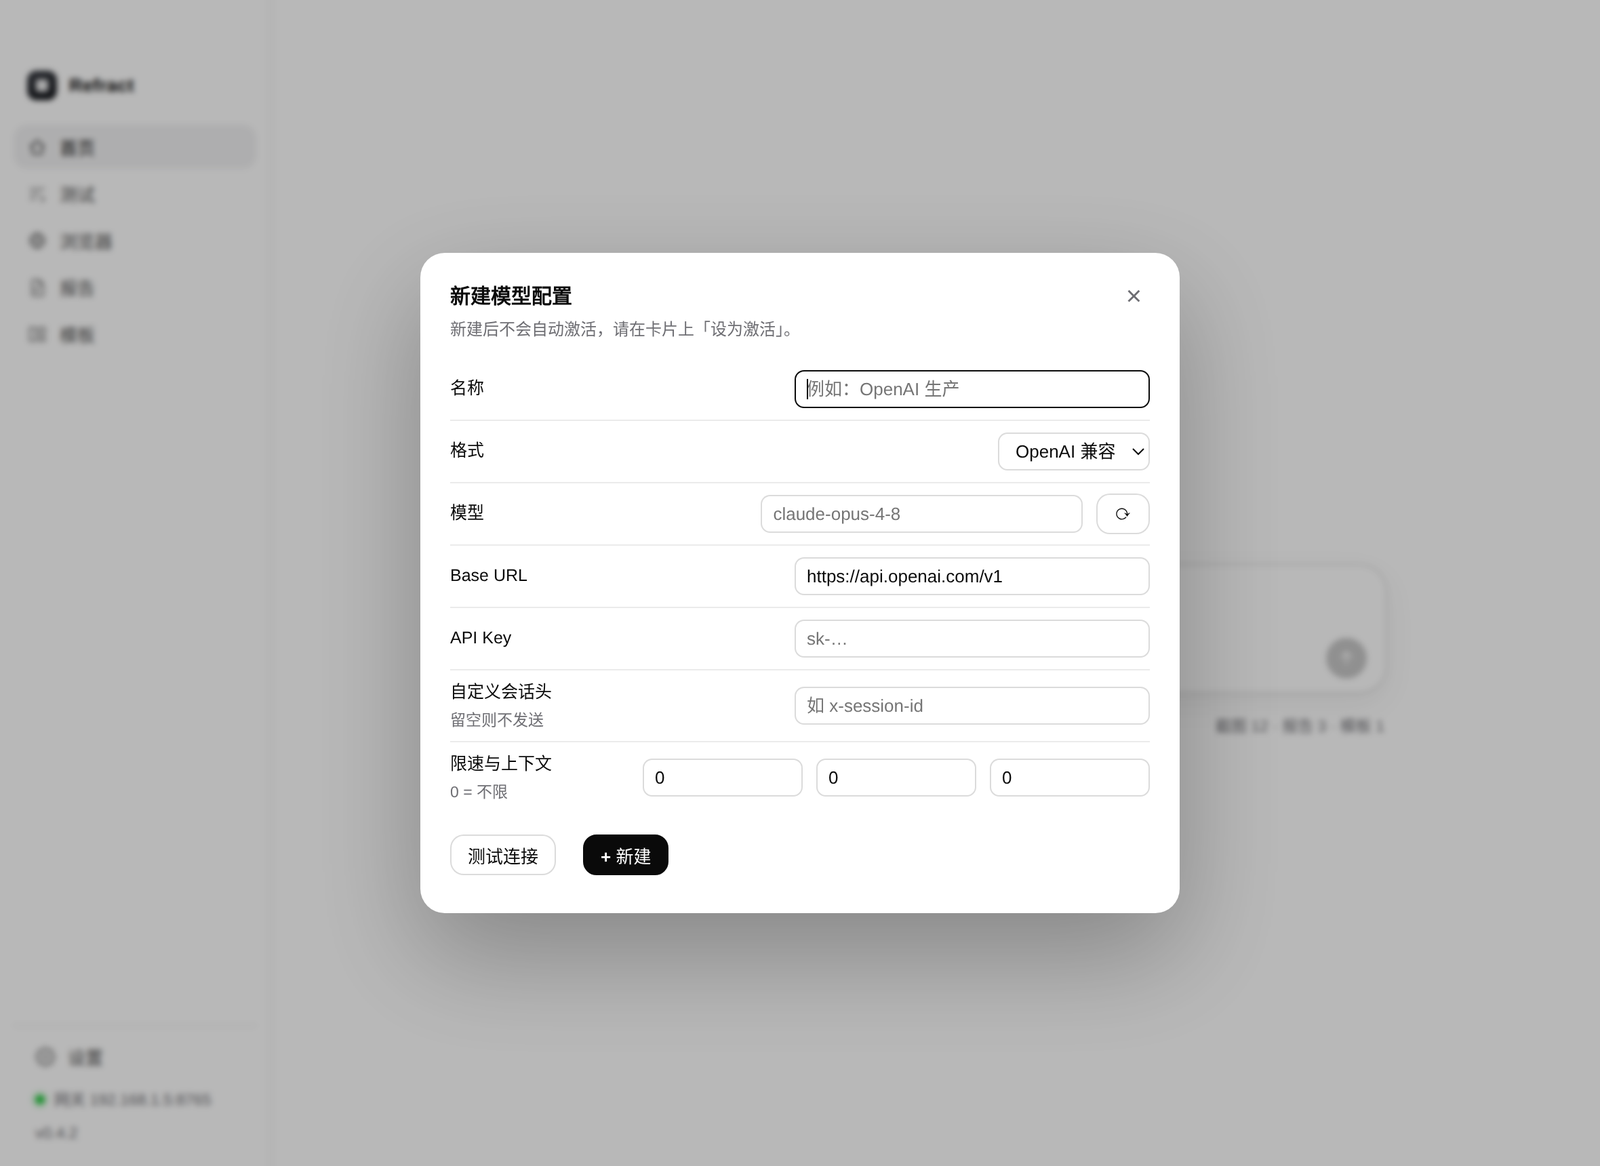
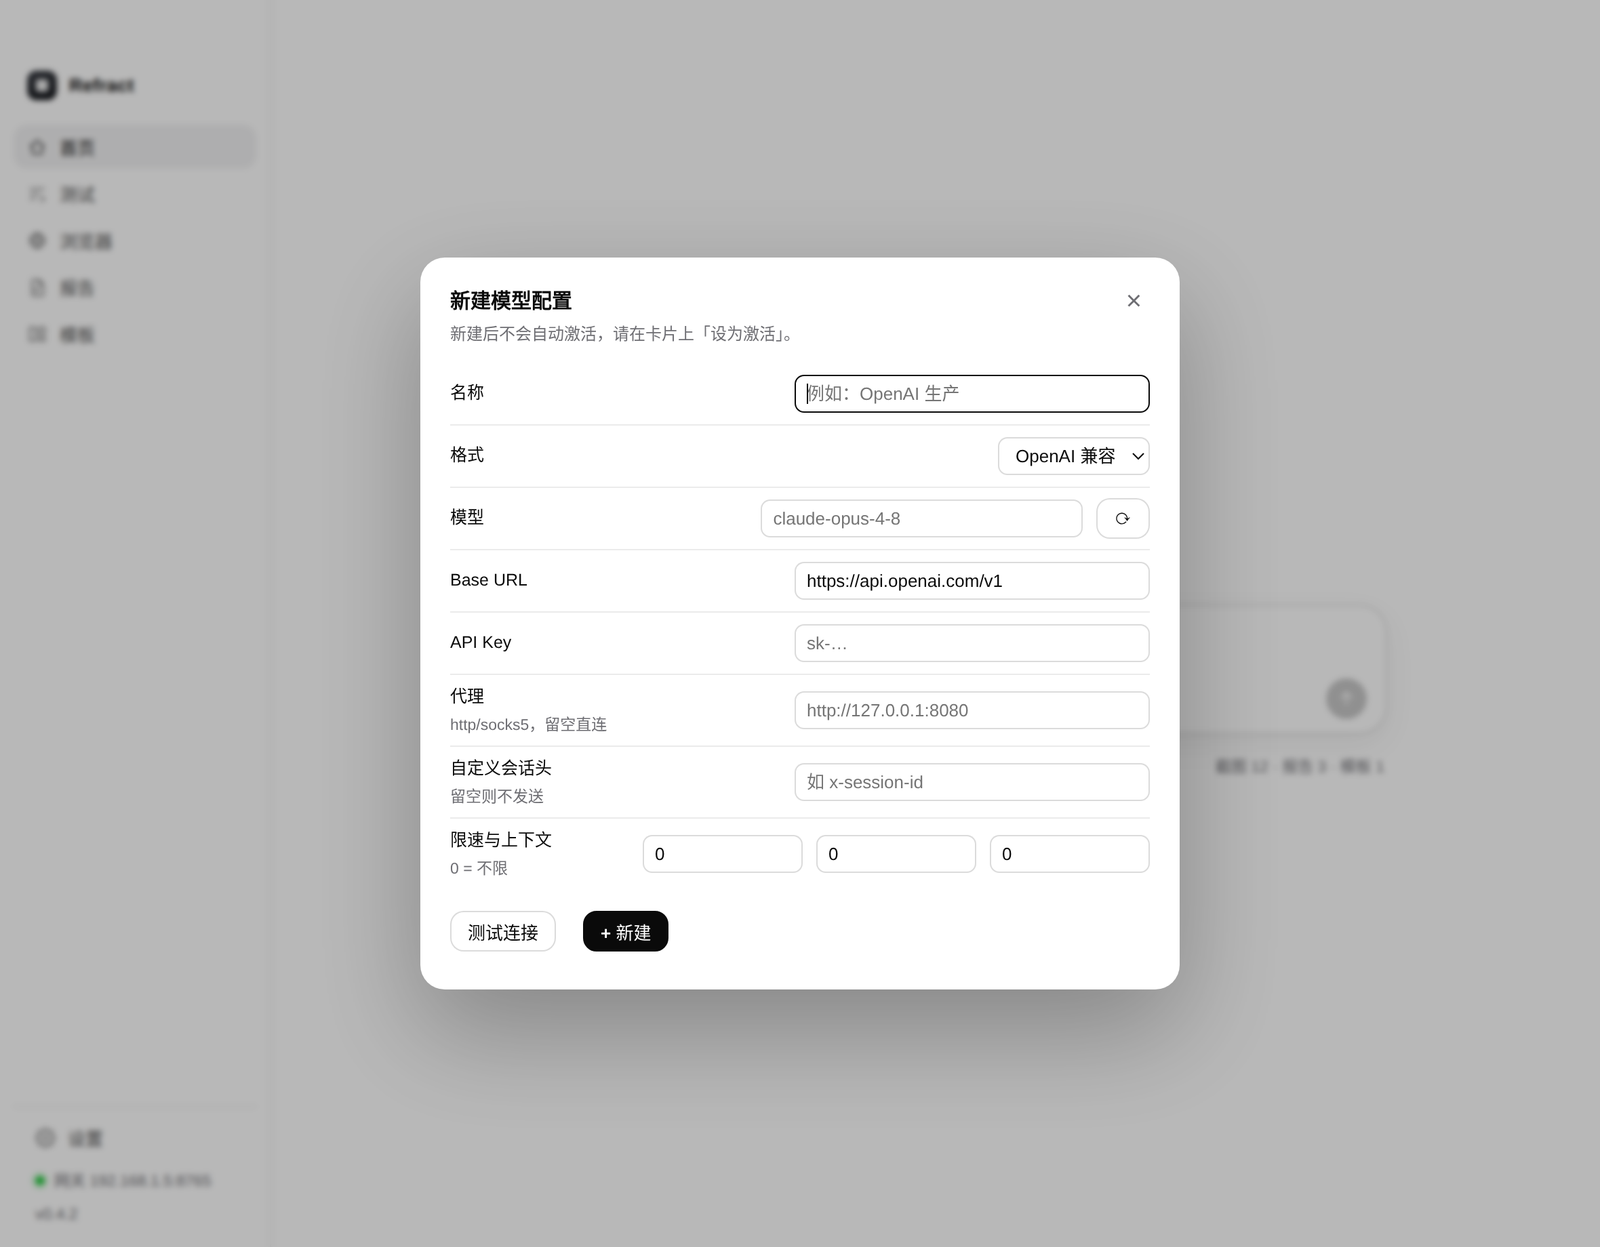
0.5.2：LLM 走代理（http/https CONNECT 与 socks5），补全会话头限速上下文

diff --git a/electron/http.js b/electron/http.js
@@ -44,6 +44,145 @@ async function send(raw, opts = {}) {
   return sendH1(raw, opts);
 }
 
+
+/* ---------------- 代理隧道 ---------------- */
+
+function parseProxy(str) {
+  try {
+    const u = new URL(String(str || '').trim());
+    return {
+      protocol: u.protocol.replace(':', ''),
+      host: u.hostname,
+      port: Number(u.port) || (u.protocol === 'socks5:' || u.protocol === 'socks5h:' ? 1080 : 8080),
+      user: decodeURIComponent(u.username || ''),
+      pass: decodeURIComponent(u.password || '')
+    };
+  } catch (e) {
+    throw new Error('代理地址格式不对：' + str);
+  }
+}
+
+function httpConnect(proxy, host, port) {
+  return new Promise((resolve, reject) => {
+    const sock = net.connect({ host: proxy.host, port: proxy.port });
+    const fail = (e) => { sock.destroy(); reject(e); };
+    sock.setTimeout(15000, () => fail(new Error('代理连接超时')));
+    sock.once('error', fail);
+    sock.once('connect', () => {
+      const auth = proxy.user
+        ? `Proxy-Authorization: Basic ${Buffer.from(`${proxy.user}:${proxy.pass}`).toString('base64')}\r\n`
+        : '';
+      sock.write(`CONNECT ${host}:${port} HTTP/1.1\r\nHost: ${host}:${port}\r\n${auth}\r\n`);
+      let buf = '';
+      const onData = (d) => {
+        buf += d.toString('latin1');
+        const idx = buf.indexOf('\r\n\r\n');
+        if (idx < 0) return;
+        sock.removeListener('data', onData);
+        const line = buf.split('\r\n')[0];
+        const code = Number(line.split(' ')[1]);
+        if (code !== 200) return fail(new Error('代理拒绝隧道：' + line));
+        sock.setTimeout(0);
+        resolve(sock);
+      };
+      sock.on('data', onData);
+    });
+  });
+}
+
+function socksConnect(proxy, host, port) {
+  return new Promise((resolve, reject) => {
+    const sock = net.connect({ host: proxy.host, port: proxy.port });
+    const fail = (e) => { sock.destroy(); reject(e); };
+    sock.setTimeout(15000, () => fail(new Error('SOCKS 代理超时')));
+    sock.once('error', fail);
+
+    let step = 'greet';
+    let buf = Buffer.alloc(0);
+
+    const onData = (d) => {
+      buf = Buffer.concat([buf, d]);
+      try {
+        if (step === 'greet') {
+          if (buf.length < 2) return;
+          if (buf[1] !== 0x00) throw new Error('SOCKS 代理要求认证');
+          buf = buf.slice(2);
+          step = 'auth';
+          if (proxy.user) {
+            const u = Buffer.from(proxy.user);
+            const pw = Buffer.from(proxy.pass);
+            sock.write(Buffer.concat([Buffer.from([0x01, u.length]), u, Buffer.from([pw.length]), pw]));
+          } else {
+            buf = buf;
+            step = 'connect';
+            sendConnect();
+          }
+          if (proxy.user && buf.length) onData(Buffer.alloc(0));
+          return;
+        }
+        if (step === 'auth') {
+          if (buf.length < 2) return;
+          if (buf[1] !== 0x00) throw new Error('SOCKS 认证失败');
+          buf = buf.slice(2);
+          step = 'connect';
+          sendConnect();
+          return;
+        }
+        if (step === 'reply') {
+          if (buf.length < 4) return;
+          if (buf[1] !== 0x00) throw new Error('SOCKS 连接失败：' + buf[1]);
+          sock.removeListener('data', onData);
+          sock.setTimeout(0);
+          resolve(sock);
+        }
+      } catch (e) {
+        fail(e);
+      }
+    };
+
+    function sendConnect() {
+      const hb = Buffer.from(host);
+      const req = Buffer.concat([
+        Buffer.from([0x05, 0x01, 0x00, 0x03, hb.length]),
+        hb,
+        Buffer.from([(port >> 8) & 0xff, port & 0xff])
+      ]);
+      sock.write(req);
+      step = 'reply';
+      if (buf.length) onData(Buffer.alloc(0));
+    }
+
+    sock.once('connect', () => {
+      if (proxy.user) sock.write(Buffer.from([0x05, 0x02, 0x00, 0x02]));
+      else sock.write(Buffer.from([0x05, 0x01, 0x00]));
+      sock.on('data', onData);
+    });
+  });
+}
+
+/** 按需建立到目标的 socket（可经代理）。 */
+function openSocket(target, scheme, proxyStr, servername) {
+  const base = proxyStr
+    ? (() => {
+        const pr = parseProxy(proxyStr);
+        return /^socks/.test(pr.protocol) ? socksConnect(pr, target.host, target.port) : httpConnect(pr, target.host, target.port);
+      })()
+    : Promise.resolve(null);
+
+  return base.then((tunnel) => {
+    if (!tunnel) {
+      return scheme === 'https'
+        ? tls.connect({ host: target.host, port: target.port, servername, rejectUnauthorized: false })
+        : net.connect({ host: target.host, port: target.port });
+    }
+    if (scheme !== 'https') return tunnel;
+    return new Promise((resolve, reject) => {
+      const s = tls.connect({ socket: tunnel, servername }, () => resolve(s));
+      s.once('error', reject);
+    });
+  });
+}
+
 async function sendH1(raw, opts = {}) {
   const timeout = opts.timeout || 30000;
   const req = parseRequest(raw);
@@ -81,28 +220,25 @@ async function sendH1(raw, opts = {}) {
 
   const started = Date.now();
   const res = await new Promise((resolve, reject) => {
-    let socket;
-    const connect = () => {
-      socket = scheme === 'https'
-        ? tls.connect({
-            host: hostname,
-            port,
-            servername: /^[\d.]+$|:/.test(hostname) ? undefined : hostname.replace(/^\[|\]$/g, ''),
-            rejectUnauthorized: false
-          })
-        : net.connect({ host: hostname, port });
-      socket.setTimeout(timeout);
-      socket.once(scheme === 'https' ? 'secureConnect' : 'connect', () => {
-        socket.write(head);
-        if (bodyBuf.length) socket.write(bodyBuf);
-      });
-      const chunks = [];
-      socket.on('data', (c) => chunks.push(c));
-      socket.on('end', () => resolve(Buffer.concat(chunks)));
-      socket.on('timeout', () => { socket.destroy(); reject(new Error('连接超时')); });
-      socket.on('error', reject);
-    };
-    connect();
+    const servername = /^[\d.]+$|:/.test(hostname) ? undefined : hostname.replace(/^\[|\]$/g, '');
+    openSocket({ host: hostname, port }, scheme, opts.proxy, servername)
+      .then((raw) => {
+        const socket = raw;
+        socket.setTimeout(timeout);
+        const ready = scheme === 'https' && !opts.proxy ? 'secureConnect' : 'connect';
+        const start = () => {
+          socket.write(head);
+          if (bodyBuf.length) socket.write(bodyBuf);
+        };
+        if (socket.connecting === false && socket.encrypted) start();
+        else socket.once(ready, start);
+        const chunks = [];
+        socket.on('data', (c) => chunks.push(c));
+        socket.on('end', () => resolve(Buffer.concat(chunks)));
+        socket.on('timeout', () => { socket.destroy(); reject(new Error('连接超时')); });
+        socket.on('error', reject);
+      })
+      .catch(reject);
   });
 
   const out = decodeResponse(res, Date.now() - started);

diff --git a/electron/llm.js b/electron/llm.js
@@ -1,5 +1,6 @@
 'use strict';
 // 极简 LLM 客户端：OpenAI 兼容 + Anthropic 兼容，支持流式。
+const httpc = require('./http');
 const DEFAULT_TIMEOUT = 120000;
 
 function joinURL(base, suffix) {
@@ -64,6 +65,51 @@ function authHeaders(p) {
   };
 }
 
+/**
+ * 走代理时用项目里的 raw HTTP 通道（fetch 不认代理）。
+ * 代价是不能流式，整段回来再一次性丢给 onDelta。
+ */
+async function proxyJSON(provider, url, bodyObj, method = 'POST') {
+  const u = new URL(url);
+  const body = bodyObj ? JSON.stringify(bodyObj) : '';
+  const h = headersFor(provider);
+  const head =
+    `${method} ${u.pathname}${u.search} HTTP/1.1\r\n` +
+    `Host: ${u.host}\r\n` +
+    Object.entries(h).map(([k, v]) => `${k}: ${v}`).join('\r\n') +
+    (body ? `\r\nContent-Length: ${Buffer.byteLength(body)}` : '') +
+    '\r\n\r\n' + body;
+
+  const r = await httpc.send(head, { scheme: 'https', protocol: 'http1.1', proxy: provider.proxy, timeout: DEFAULT_TIMEOUT });
+  const idx = r.text.indexOf('\r\n\r\n');
+  const payload = idx >= 0 ? r.text.slice(idx + 4) : '';
+  if (r.status >= 400) {
+    let msg = payload.slice(0, 200);
+    try { const j = JSON.parse(payload); msg = (j.error && (j.error.message || j.error)) || msg; } catch (e) { /* ignore */ }
+    throw new Error(`HTTP ${r.status}：${msg}`);
+  }
+  try {
+    return JSON.parse(payload);
+  } catch (e) {
+    throw new Error('返回不是 JSON：' + payload.slice(0, 120));
+  }
+}
+
+async function chatViaProxy(provider, messages, maxTokens = 4096) {
+  if (provider.kind === 'anthropic') {
+    const system = messages.filter((m) => m.role === 'system').map((m) => m.content).join('\n');
+    const rest = messages.filter((m) => m.role !== 'system');
+    const body = { model: provider.model, max_tokens: maxTokens, messages: rest };
+    if (system) body.system = system;
+    const j = await proxyJSON(provider, joinURL(provider.baseURL, '/v1/messages'), body);
+    if (j.error) throw new Error(j.error.message || '请求失败');
+    return (j.content || []).filter((c) => c.type === 'text').map((c) => c.text).join('');
+  }
+  const j = await proxyJSON(provider, joinURL(provider.baseURL, '/chat/completions'), { model: provider.model, messages });
+  if (j.error) throw new Error(j.error.message || '请求失败');
+  return (j.choices && j.choices[0] && j.choices[0].message.content) || '';
+}
+
 async function readSSE(res, onEvent) {
   const reader = res.body.getReader();
   const decoder = new TextDecoder();
@@ -90,6 +136,15 @@ async function readSSE(res, onEvent) {
 
 async function chat({ provider, messages, onDelta, signal, temperature = 0.4, maxTokens = 4096 }) {
   if (!provider) throw new Error('未配置模型');
+  messages = trimMessages(messages, provider.contextK);
+  await throttle(provider);
+
+  if (provider.proxy) {
+    const text = await chatViaProxy(provider, messages, maxTokens);
+    if (onDelta && text) onDelta(text);
+    return text;
+  }
+
   const controller = new AbortController();
   const timer = setTimeout(() => controller.abort(), DEFAULT_TIMEOUT);
   if (signal) signal.addEventListener('abort', () => controller.abort());
@@ -163,6 +218,13 @@ async function listModels(provider) {
   const headers = provider.modelsURL
     ? { 'content-type': 'application/json', authorization: `Bearer ${provider.apiKey || ''}` }
     : headersFor(provider);
+  if (provider.proxy) {
+    // 自定义模型列表地址走 OpenAI 风格的 Bearer 鉴权
+    const p2 = provider.modelsURL ? { ...provider, kind: 'openai' } : provider;
+    const j = await proxyJSON(p2, url, null, 'GET');
+    const list = j.data || j.models || [];
+    return list.map((m) => m.id || m.name).filter(Boolean);
+  }
   const res = await fetch(url, { headers });
   if (!res.ok) throw new Error(`获取模型失败 ${res.status}`);
   const json = await res.json();

diff --git a/renderer/app.js b/renderer/app.js
@@ -520,6 +520,7 @@ function providerDetailHTML(id) {
     </div>
     <div class="krow"><div class="klabel">Base URL</div><input class="inp" style="flex:1;max-width:none" id="pdBase" value="${esc(p.baseURL)}" /></div>
     <div class="krow"><div class="klabel">模型列表地址<small>留空按协议猜</small></div><input class="inp" style="flex:1;max-width:none" id="pdModelsURL" value="${esc(p.modelsURL || '')}" /></div>
+    <div class="krow"><div class="klabel">代理<small>http/socks5，留空直连</small></div><input class="inp" style="flex:1;max-width:none" id="pdProxy" value="${esc(p.proxy || '')}" placeholder="http://127.0.0.1:8080" /></div>
     <div class="krow"><div class="klabel">自定义会话头<small>留空则不发送</small></div><input class="inp" style="flex:1;max-width:none" id="pdSession" value="${esc(p.sessionHeader || '')}" placeholder="如 x-session-id" /></div>
     <div class="krow">
       <div class="klabel">限速与上下文<small>0 = 不限</small></div>
@@ -582,6 +583,7 @@ function bindProviderDetail(id) {
   $('#pdKind').addEventListener('change', (e) => { p.kind = e.target.value; persist(); });
   $('#pdBase').addEventListener('input', (e) => { p.baseURL = e.target.value; persist(); });
   $('#pdModelsURL').addEventListener('input', (e) => { p.modelsURL = e.target.value; persist(); });
+  $('#pdProxy').addEventListener('input', (e) => { p.proxy = e.target.value; persist(); });
   $('#pdSession').addEventListener('input', (e) => { p.sessionHeader = e.target.value; persist(); });
   $('#pdSec').addEventListener('input', (e) => { p.limitSec = Number(e.target.value) || 0; persist(); });
   $('#pdMin').addEventListener('input', (e) => { p.limitMin = Number(e.target.value) || 0; persist(); });
@@ -772,6 +774,7 @@ function openProvModal() {
   $('#pmModel').value = '';
   $('#pmBase').value = 'https://api.openai.com/v1';
   $('#pmKey').value = '';
+  $('#pmProxy').value = '';
   $('#pmSession').value = '';
   $('#pmSec').value = '0';
   $('#pmMin').value = '0';
@@ -796,6 +799,7 @@ function draftProvider() {
     activeAccountId: '',
     models: $('#pmModel').value.trim() ? [$('#pmModel').value.trim()] : [],
     activeModel: $('#pmModel').value.trim(),
+    proxy: $('#pmProxy').value.trim(),
     sessionHeader: $('#pmSession').value.trim(),
     limitSec: Number($('#pmSec').value) || 0,
     limitMin: Number($('#pmMin').value) || 0,

diff --git a/test/run.js b/test/run.js
@@ -67,6 +67,17 @@ function ok(name, cond, extra) {
   const chatMsgs = report.buildChatMessages({ material: 'GET / HTTP/1.1', template: '# {{title}}', meta: { product: 'X' }, question: '写报告' });
   ok('对话 prompt 含写作约束', chatMsgs[0].content.includes('固定句式') && chatMsgs[0].content.includes('简洁直接'));
   ok('对话 prompt 带材料', chatMsgs[1].content.includes('GET / HTTP/1.1'));
+  const longMsgs = [
+    { role: 'system', content: 'S'.repeat(100) },
+    { role: 'user', content: 'a'.repeat(4000) },
+    { role: 'assistant', content: 'b'.repeat(4000) },
+    { role: 'user', content: 'last' }
+  ];
+  ok('上下文裁剪保留 system', llm.trimMessages(longMsgs, 1)[0].role === 'system');
+  ok('上下文裁剪会丢掉最早的消息', llm.trimMessages(longMsgs, 1).length < longMsgs.length);
+  ok('不限上下文时原样返回', llm.trimMessages(longMsgs, 0).length === longMsgs.length);
+  ok('会话 id 固定', typeof llm.SESSION_ID === 'string' && llm.SESSION_ID.startsWith('refract-'));
+
   ok('LLM joinURL', llm.joinURL('https://x/v1/', '/chat') === 'https://x/v1/chat');
   ok('版本比较', updater.cmp('0.1.0', '0.1.1') === -1 && updater.cmp('1.0.0', '0.9.9') === 1);
 

diff --git a/electron/store.js b/electron/store.js
@@ -16,6 +16,7 @@ const DEFAULTS = {
       baseURL: 'https://open.bigmodel.cn/api/anthropic',
       modelsURL: 'https://open.bigmodel.cn/api/paas/v4/models',
       enabled: true,
+      proxy: '',
       sessionHeader: '',
       limitSec: 0,
       limitMin: 0,
@@ -100,6 +101,7 @@ function migrateProvider(p) {
     baseURL: p.baseURL || '',
     modelsURL: p.modelsURL || '',
     enabled: p.enabled !== false,
+    proxy: typeof p.proxy === 'string' ? p.proxy : '',
     sessionHeader: p.sessionHeader || '',
     limitSec: Math.max(0, Number(p.limitSec) || 0),
     limitMin: Math.max(0, Number(p.limitMin) || 0),
@@ -167,6 +169,8 @@ function resolveProvider(cfg, id) {
     accountName: acc.name || '',
     model: p.activeModel || (p.models || [])[0] || '',
     models: p.models || [],
+    proxy: typeof p.proxy === 'string' ? p.proxy : '',
+    proxy: p.proxy || '',
     sessionHeader: p.sessionHeader || '',
     limitSec: p.limitSec || 0,
     limitMin: p.limitMin || 0,

diff --git a/renderer/index.html b/renderer/index.html
@@ -397,6 +397,7 @@
       </div>
       <div class="krow"><div class="klabel">Base URL</div><input class="inp" style="flex:1;max-width:none" id="pmBase" placeholder="https://api.openai.com/v1" /></div>
       <div class="krow"><div class="klabel">API Key</div><input class="inp" style="flex:1;max-width:none" id="pmKey" type="password" placeholder="sk-…" /></div>
+      <div class="krow"><div class="klabel">代理<small>http/socks5，留空直连</small></div><input class="inp" style="flex:1;max-width:none" id="pmProxy" placeholder="http://127.0.0.1:8080" /></div>
       <div class="krow"><div class="klabel">自定义会话头<small>留空则不发送</small></div><input class="inp" style="flex:1;max-width:none" id="pmSession" placeholder="如 x-session-id" /></div>
       <div class="krow">
         <div class="klabel">限速与上下文<small>0 = 不限</small></div>

diff --git a/README.md b/README.md
@@ -65,6 +65,7 @@
 
   ![新建模型配置](docs/newmodel.png)
 
+- 代理：`http://`、`https://`、`socks5://`，可带账号密码；走代理时改成整段返回（不流式）
 - 自定义会话头：填了名字后每个请求都带这个头，值是本进程固定的 session id（给做粘性路由/提示缓存的网关用）
 - 每秒 / 每分钟限速：服务级排队，0 表示不限
 - 上下文窗口（K）：超出就从最早的消息开始丢，系统提示保留
